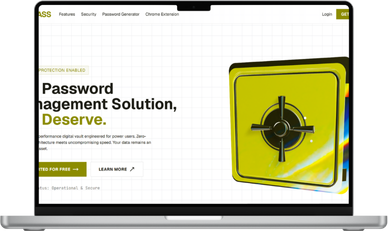
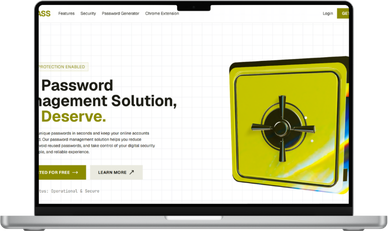
Version 1.2.1 dev and prod release, fixed the responsiveness of the education area, and changed out the wardpass image.

diff --git a/app/(pages)/page.tsx b/app/(pages)/page.tsx
@@ -29,7 +29,7 @@ const Home = () => {
         initial={{ opacity: 0 }}
         whileInView={{ opacity: 1 }}
         viewport={{ once: true }}
-        className="w-full flex flex-col md:flex-row items-center justify-center lg:justify-around px-10 py-10"
+        className="w-full flex flex-col md:flex-row items-center justify-around gap-10 lg:gap-0 px-10 py-10"
       >
         <div className="flex flex-col items-center gap-10 md:w-2/4 lg:w-auto">
           <div className="text-6xl md:text-8xl text-center min-w-sm md:min-w-xl max-w-xl">
@@ -123,8 +123,8 @@ const Home = () => {
         className="flex flex-col justify-center items-center m-10 md:m-40"
       >
         <div className="flex flex-col gap-50">
-          <div className="flex flex-col gap-10">
-            <div className="text-6xl md:text-8xl text-center md:text-left font-semibold">
+          <div className="flex flex-col gap-10 max-w-xs md:max-w-2xl lg:max-w-full">
+            <div className="text-4xl md:text-8xl text-center md:text-left font-semibold">
               Educational Background
             </div>
             <div className="flex flex-col text-2xl text-center md:text-left gap-10">
@@ -145,15 +145,7 @@ const Home = () => {
                 When I was volunteering as a vision mixer, I also assisted in live streaming and setting up stream schedules.
                 Lastly, I have helped out children who were in primary school to pass their Math PEP exams.
               </p>
-              <svg height="50" width="700" xmlns="http://www.w3.org/2000/svg">
-                <line
-                  x1="0"
-                  y1="10"
-                  x2="700"
-                  y2="10"
-                  className="stroke-1 stroke-white"
-                />
-              </svg>
+              <svg xmlns="http://www.w3.org/2000/svg" width="700" height="50"><path d="M0 10h700" className="hidden lg:block stroke-1 stroke-white" /></svg>
             </div>
           </div>
         </div>
@@ -215,6 +207,7 @@ const Home = () => {
             className="w-auto h-auto object-cover aspect-auto rounded-full"
             width={400}
             height={400}
+            loading="eager"
           />
         </div>
       </motion.section>
@@ -238,7 +231,7 @@ const Home = () => {
               key={index}
               className="w-full h-full flex flex-col gap-10 items-center justify-center"
             >
-              <div><Image src={app.image} alt="App image" width={400} height={400} className='w-auto h-auto aspect-auto' /></div>
+              <div><Image src={app.image} alt="App image" width={400} height={400} className='w-auto h-auto aspect-auto' loading="eager" /></div>
               <div className="text-2xl text-center w-sm md:w-fit">
                 {app.description}
               </div>
@@ -276,7 +269,7 @@ const Home = () => {
               }}
               className="w-full h-full p-10 md:p-0 md:w-105 md:h-105 flex flex-col gap-10 items-center justify-center cursor-pointer rounded-4xl border-4 border-neutral-200 dark:border-neutral-800 shadow-2xl/20 shadow-neutral-600 bg-black text-white transition-transform duration-100 hover:scale-105 hover:shadow-neutral-400"
             >
-              <div><Image src={accolade.image} alt="Accolade image" width={300} height={300} className='w-auto h-auto aspect-auto' /></div>
+              <div><Image src={accolade.image} alt="Accolade image" width={300} height={300} className='w-auto h-auto aspect-auto' loading="eager" /></div>
               <div className="text-2xl text-center w-75">
                 {accolade.description}
               </div>
@@ -291,13 +284,13 @@ const Home = () => {
           </DialogHeader>
           <div>
             {currentAccolade.includes("Emmanuel") && (
-              <Image src={accoladeImages.eacPortmore} draggable="false" alt={currentAccolade} width={500} height={500} className="rounded-lg pointer-events-none select-none w-auto h-auto aspect-auto" />
+              <Image src={accoladeImages.eacPortmore} draggable="false" alt={currentAccolade} width={500} height={500} className="rounded-lg pointer-events-none select-none w-auto h-auto aspect-auto" loading="eager" />
             )}
             {currentAccolade.includes("Kingston") && (
-              <Image src={accoladeImages.kingstonCollege} draggable="false" alt={currentAccolade} width={500} height={500} className="rounded-lg pointer-events-none select-none w-auto h-auto aspect-auto" />
+              <Image src={accoladeImages.kingstonCollege} draggable="false" alt={currentAccolade} width={500} height={500} className="rounded-lg pointer-events-none select-none w-auto h-auto aspect-auto" loading="eager" />
             )}
             {currentAccolade.includes("University") && (
-              <Image src={accoladeImages.ucc} draggable="false" alt={currentAccolade} width={600} height={600} className="rounded-lg pointer-events-none select-none w-auto h-auto aspect-auto" />
+              <Image src={accoladeImages.ucc} draggable="false" alt={currentAccolade} width={600} height={600} className="rounded-lg pointer-events-none select-none w-auto h-auto aspect-auto" loading="eager" />
             )}
           </div>
         </DialogContent>
